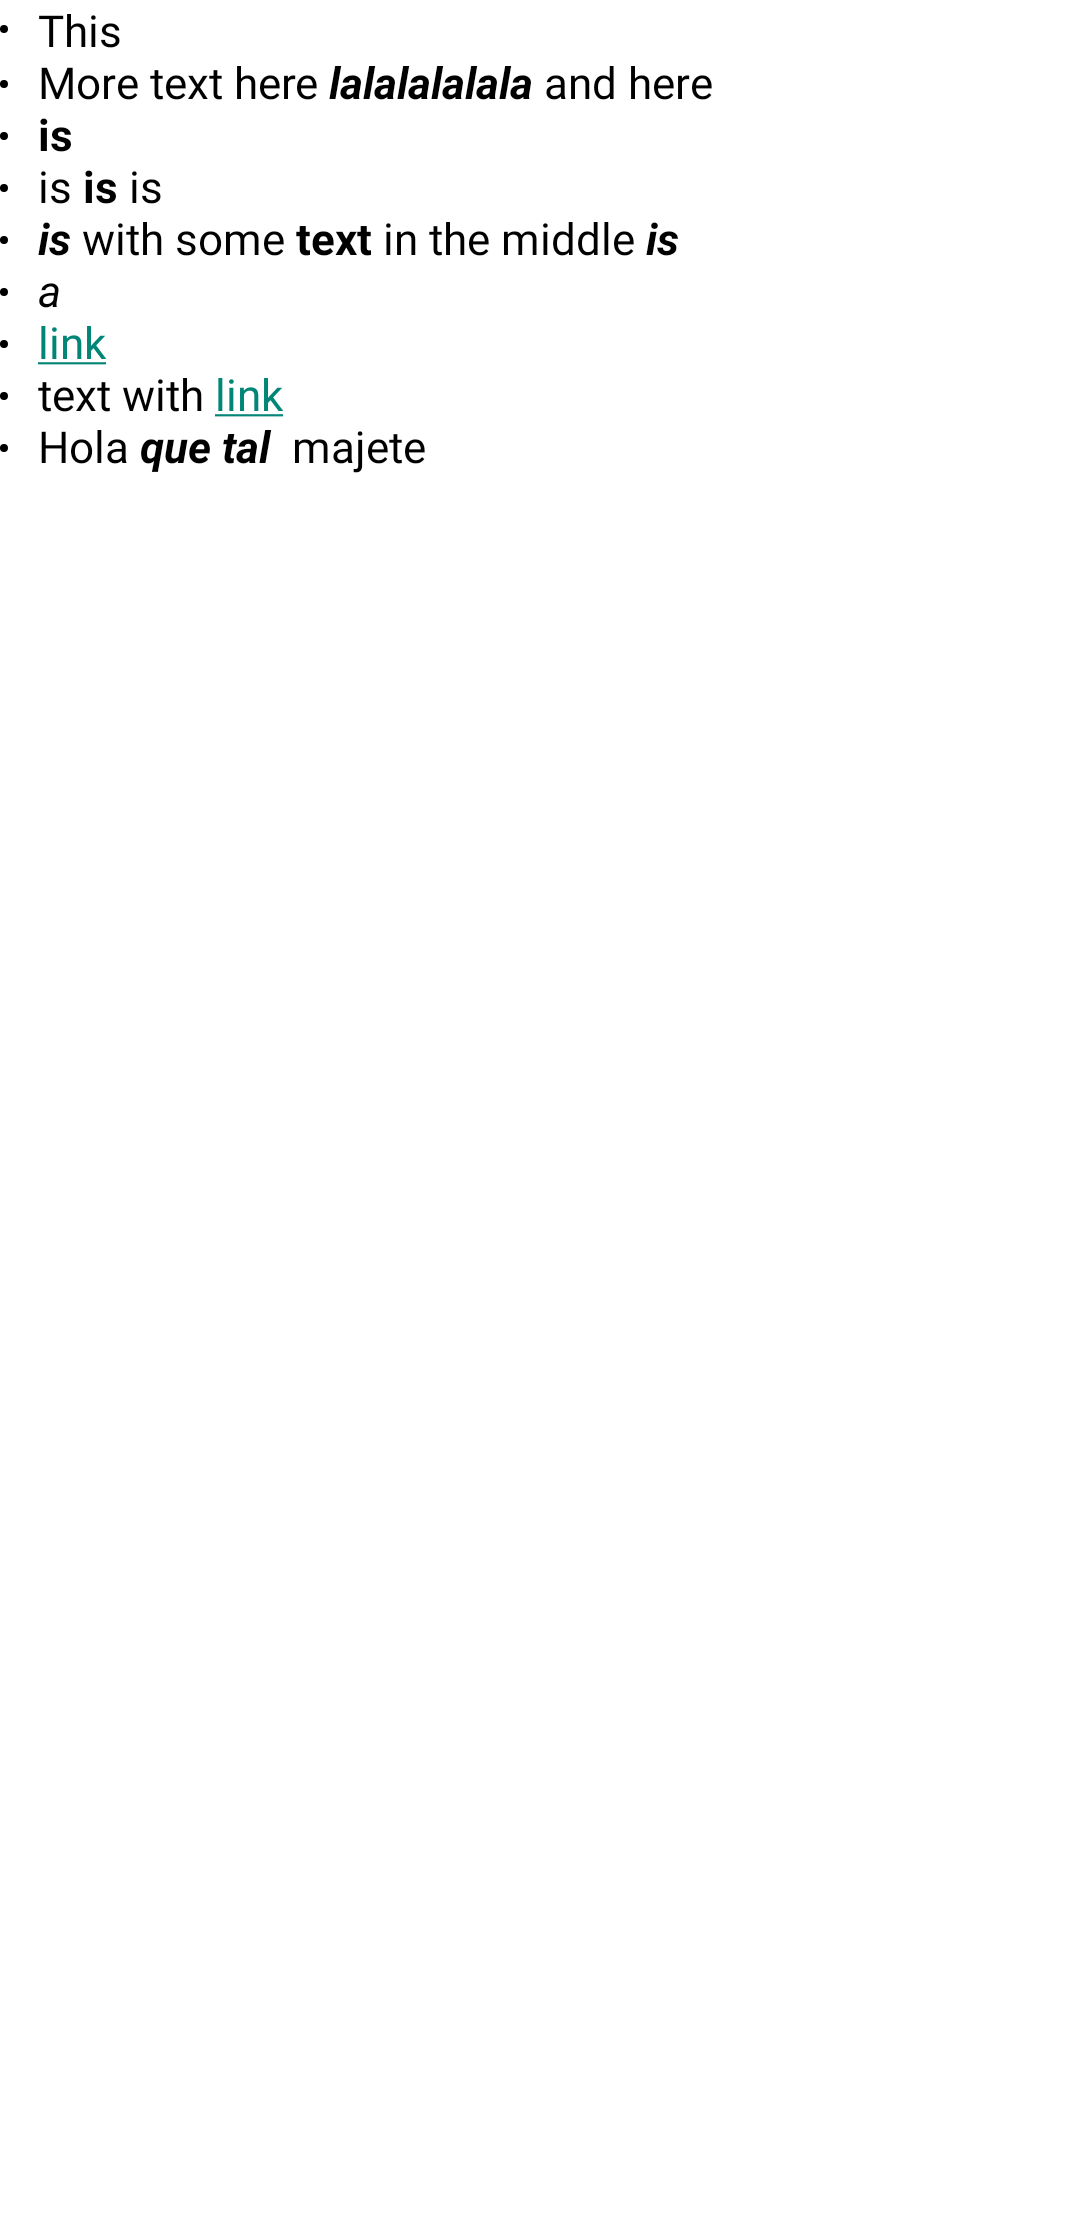
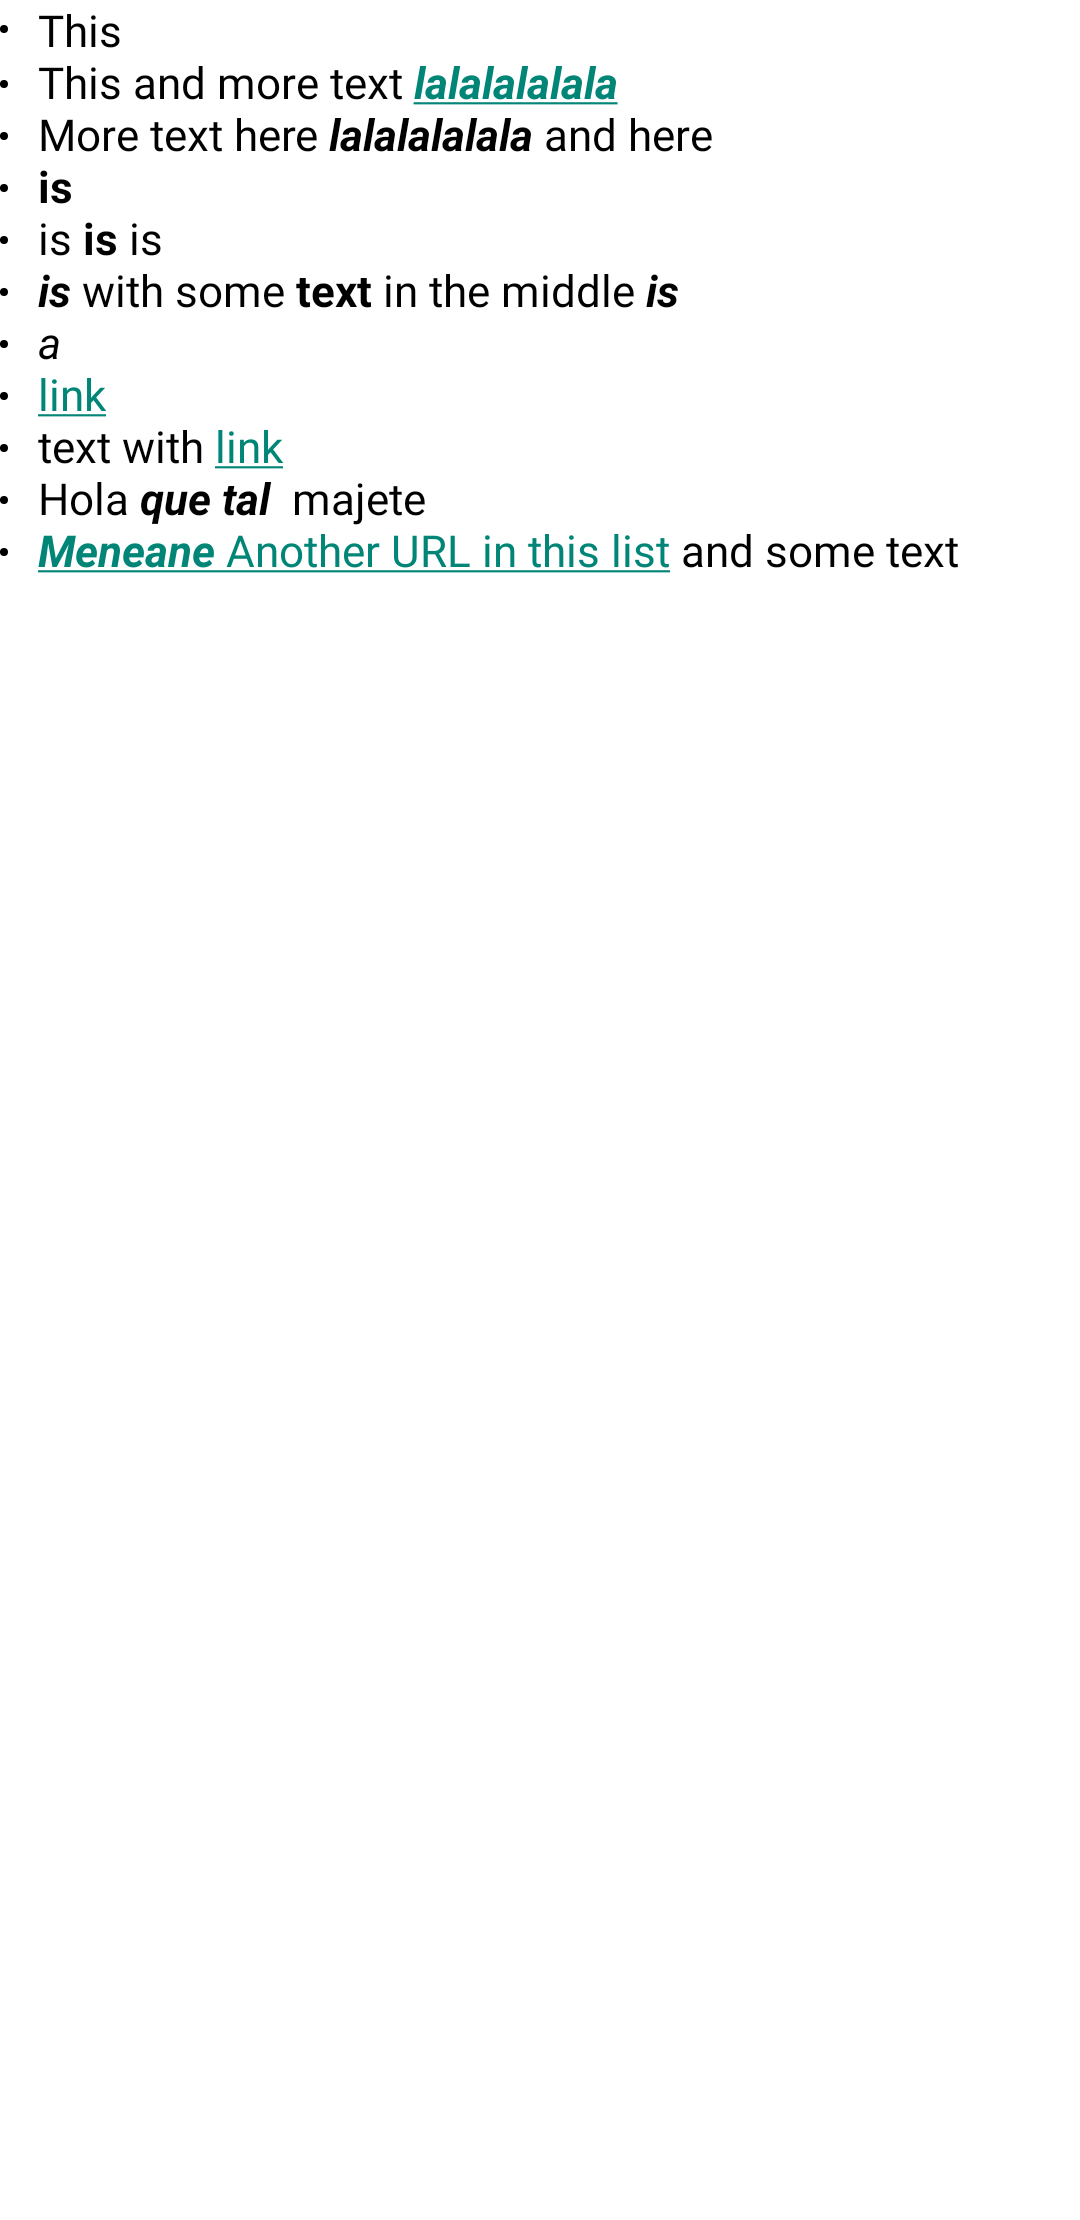
- Added new case

Changed region(s): [[0.0306, 0.0311, 0.6722, 0.2797], [0.4583, 0.2176, 0.6111, 0.2797], [0.825, 0.2486, 0.8556, 0.2797]]

diff --git a/app/src/internal/java/com/kickstarter/ui/activities/PlaygroundActivity.kt b/app/src/internal/java/com/kickstarter/ui/activities/PlaygroundActivity.kt
@@ -3,6 +3,7 @@ package com.kickstarter.ui.activities
 import android.content.Intent
 import android.os.Build
 import android.os.Bundle
+import android.text.method.LinkMovementMethod
 import android.util.Pair
 import android.view.View
 import androidx.annotation.RequiresApi
@@ -10,6 +11,9 @@ import com.kickstarter.R
 import com.kickstarter.databinding.PlaygroundLayoutBinding
 import com.kickstarter.libs.BaseActivity
 import com.kickstarter.libs.RefTag
+import com.kickstarter.libs.htmlparser.HTMLParser
+import com.kickstarter.libs.htmlparser.TextViewElement
+import com.kickstarter.libs.htmlparser.getStyledComponents
 import com.kickstarter.libs.qualifiers.RequiresActivityViewModel
 import com.kickstarter.mock.factories.ProjectFactory
 import com.kickstarter.models.Project
@@ -29,6 +33,33 @@ class PlaygroundActivity : BaseActivity<PlaygroundViewModel.ViewModel?>() {
         binding = PlaygroundLayoutBinding.inflate(layoutInflater)
         view = binding.root
         setContentView(view)
+
+        // - Allow clickable spans
+        binding.text.linksClickable = true
+        binding.text.isClickable = true
+        binding.text.movementMethod = LinkMovementMethod.getInstance()
+
+        val headerSize = resources.getDimensionPixelSize(R.dimen.title_3)
+        val body = resources.getDimensionPixelSize(R.dimen.callout)
+
+        val url = "https://www.meneame.net/"
+        val html = "<ul>\n" +
+            "   <li>This</li>\n" +
+            "   <li>This and more text <a href=\\\"http://record.pt\\\" target=\\\"_blank\\\" rel=\\\"noopener\\\"><em><strong>lalalalalala</strong></em></a></li>\n" +
+            "   <li>More text here <em><strong>lalalalalala</strong></em> and here </li>\n" +
+            "   <li><strong>is</strong></li>\n" +
+            "   <li>is <strong>is</strong> is</li>\n" +
+            "   <li><em><strong>is</strong></em> with some <strong>text</strong> in the middle <em><strong>is</strong></em></li>\n" +
+            "   <li><em>a</em></li>\n" +
+            "   <li><a href=\\\"http://record.pt\\\" target=\\\"_blank\\\" rel=\\\"noopener\\\">link</a></li>\n" +
+            "   <li>text with <a href=\\\"http://record.pt\\\" target=\\\"_blank\\\" rel=\\\"noopener\\\">link</a></li>\n" +
+            "   <li>Hola <strong><em>que tal </em></strong> majete</li>\n" +
+            "   <li><a href=$url target=\\\"_blank\\\" rel=\\\"noopener\\\"><em><strong>Meneane </strong></em></a><a href=$url target=\\\"_blank\\\" rel=\\\"noopener\\\">Another URL in this list</a> and some text</li>"
+        "</ul>"
+        val listOfElements = HTMLParser().parse(html)
+        val element: TextViewElement = listOfElements.first() as TextViewElement
+
+        binding.text.text = element.getStyledComponents(body, headerSize, this)
 
         setStepper()
         setProjectActivityButtonClicks()

diff --git a/app/src/main/java/com/kickstarter/libs/htmlparser/ElementExt.kt b/app/src/main/java/com/kickstarter/libs/htmlparser/ElementExt.kt
@@ -133,15 +133,11 @@ fun TextNode.parseTextElement(element: Element): TextComponent {
         getLiElement(element, liElement = list)
         val liElement = list.firstOrNull()
         val parent = element.parent()
+        val grandFather = parent?.parent()
 
         // - Clean up the liElement, many times you get empty child TextNodes or TextNodes with &nbsp
         val liChildElements = liElement?.childNodes()?.filter {
             !(it is TextNode && it.text().trim().isEmpty())
-        }
-
-        if (liElement == element && liChildElements?.size == 1) {
-            textStyleList.add(TextComponent.TextStyleType.LIST)
-            textStyleList.add(TextComponent.TextStyleType.LIST_END)
         }
 
         // Am I the first child of the LI element?
@@ -160,6 +156,18 @@ fun TextNode.parseTextElement(element: Element): TextComponent {
         } else {
             // Is my parent the last child of the LI element?
             if (liChildElements?.last() == parent) {
+                textStyleList.add(TextComponent.TextStyleType.LIST_END)
+            }
+        }
+
+        if (textStyleList.size >= 3) {
+            // Is my gradFather the first child of the LI element?
+            if (liChildElements?.first() == grandFather) {
+                textStyleList.add(TextComponent.TextStyleType.LIST)
+            }
+
+            // Is my gradFather the first child of the LI element?
+            if (liChildElements?.last() == grandFather) {
                 textStyleList.add(TextComponent.TextStyleType.LIST_END)
             }
         }

diff --git a/app/src/androidTest/java/com/kickstarter/screenshoot/testing/ui/components/TextViewElementShotTest.kt b/app/src/androidTest/java/com/kickstarter/screenshoot/testing/ui/components/TextViewElementShotTest.kt
@@ -120,8 +120,10 @@ class TextViewElementShotTest : ScreenshotTest {
             ) as ConstraintLayout
             ).findViewById(R.id.text_view) as AppCompatTextView
 
+        val url = "https://www.meneame.net/"
         val html = "<ul>\n" +
             "   <li>This</li>\n" +
+            "   <li>This and more text <a href=\\\"http://record.pt\\\" target=\\\"_blank\\\" rel=\\\"noopener\\\"><em><strong>lalalalalala</strong></em></a></li>\n" +
             "   <li>More text here <em><strong>lalalalalala</strong></em> and here </li>\n" +
             "   <li><strong>is</strong></li>\n" +
             "   <li>is <strong>is</strong> is</li>\n" +
@@ -130,7 +132,8 @@ class TextViewElementShotTest : ScreenshotTest {
             "   <li><a href=\\\"http://record.pt\\\" target=\\\"_blank\\\" rel=\\\"noopener\\\">link</a></li>\n" +
             "   <li>text with <a href=\\\"http://record.pt\\\" target=\\\"_blank\\\" rel=\\\"noopener\\\">link</a></li>\n" +
             "   <li>Hola <strong><em>que tal </em></strong> majete</li>\n" +
-            "</ul>"
+            "   <li><a href=$url target=\\\"_blank\\\" rel=\\\"noopener\\\"><em><strong>Meneane </strong></em></a><a href=$url target=\\\"_blank\\\" rel=\\\"noopener\\\">Another URL in this list</a> and some text</li>"
+        "</ul>"
 
         val listOfElements = HTMLParser().parse(html)
 

diff --git a/app/src/test/java/com/kickstarter/libs/htmlparser/HTMLParserTest.kt b/app/src/test/java/com/kickstarter/libs/htmlparser/HTMLParserTest.kt
@@ -141,16 +141,15 @@ class HTMLParserTest {
         val secondComponent = textElement.components[1]
         assert(secondComponent.link == url)
         assert(secondComponent.text == "Another URL in this list")
-        assert(secondComponent.styles.size == 2)
+        assert(secondComponent.styles.size == 1)
         assert(secondComponent.styles[0] == TextComponent.TextStyleType.LINK)
-        assert(secondComponent.styles[1] == TextComponent.TextStyleType.LIST)
 
         // - Third Component
         val thirdComponent = textElement.components[2]
         assert(thirdComponent.link == "")
         assert(thirdComponent.text == " and some text")
         assert(thirdComponent.styles.size == 1)
-        assert(thirdComponent.styles[0] == TextComponent.TextStyleType.LIST)
+        assert(thirdComponent.styles[0] == TextComponent.TextStyleType.LIST_END)
     }
 
     @Test
